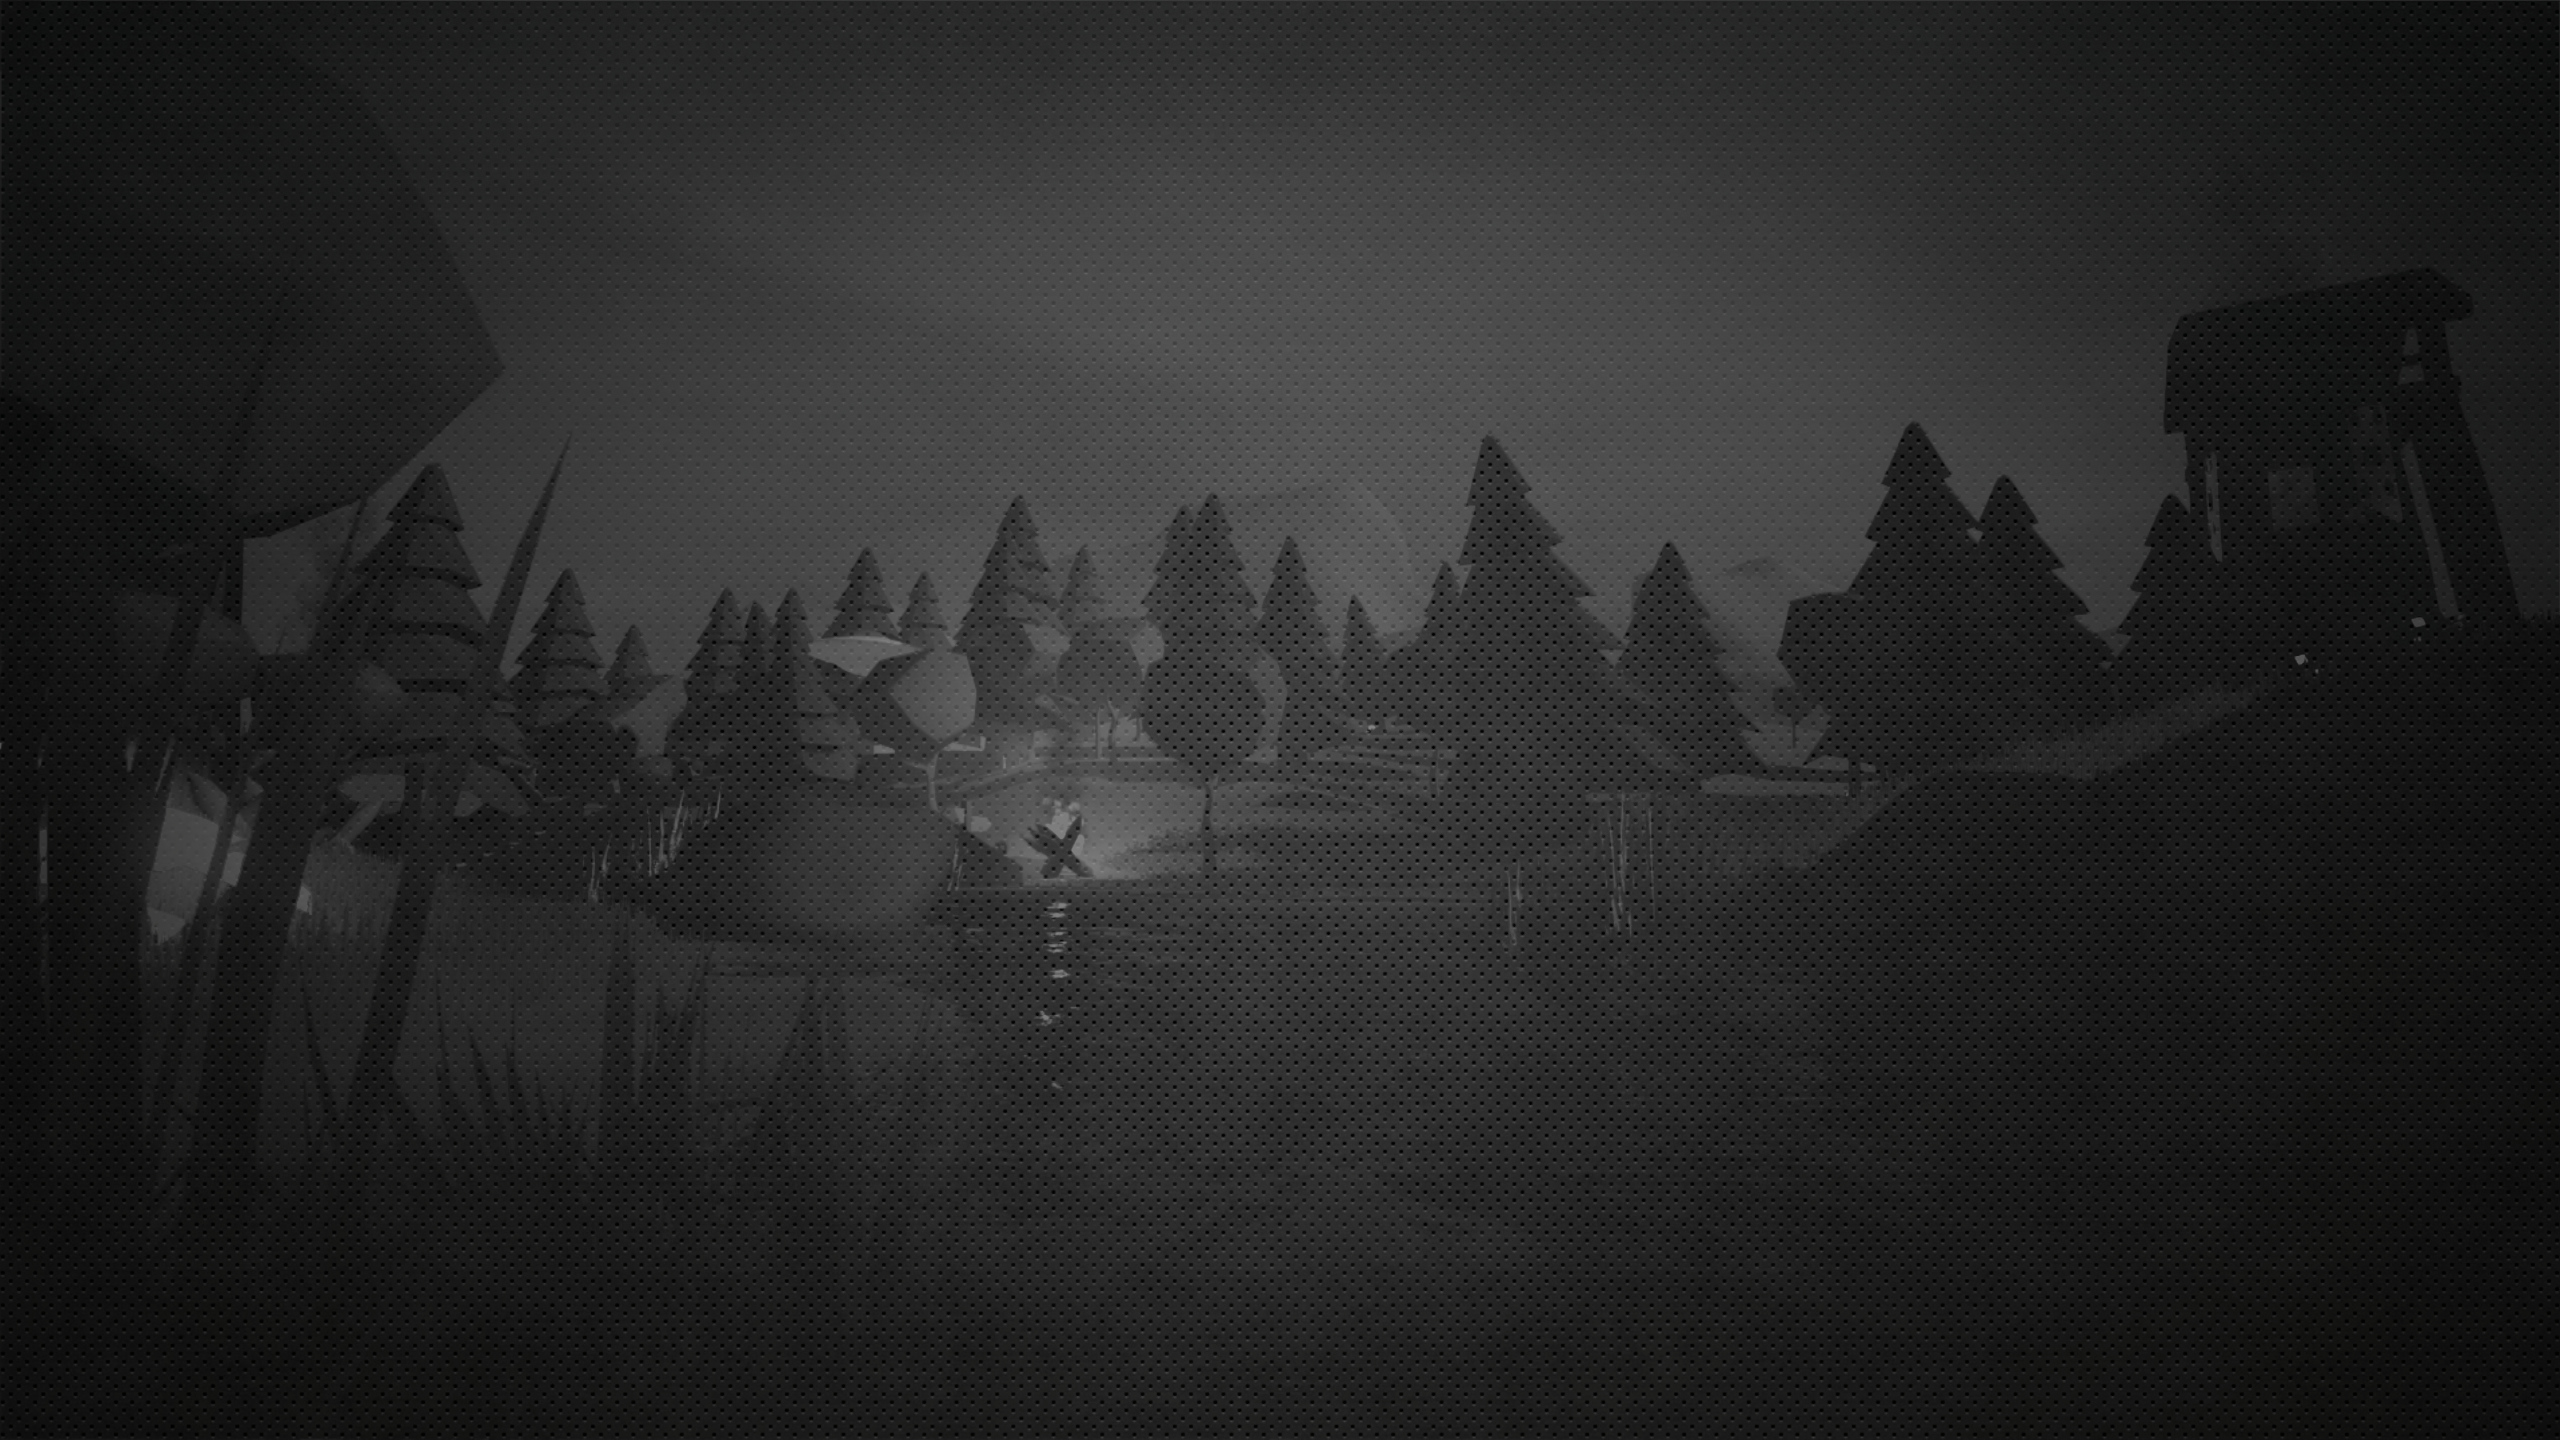
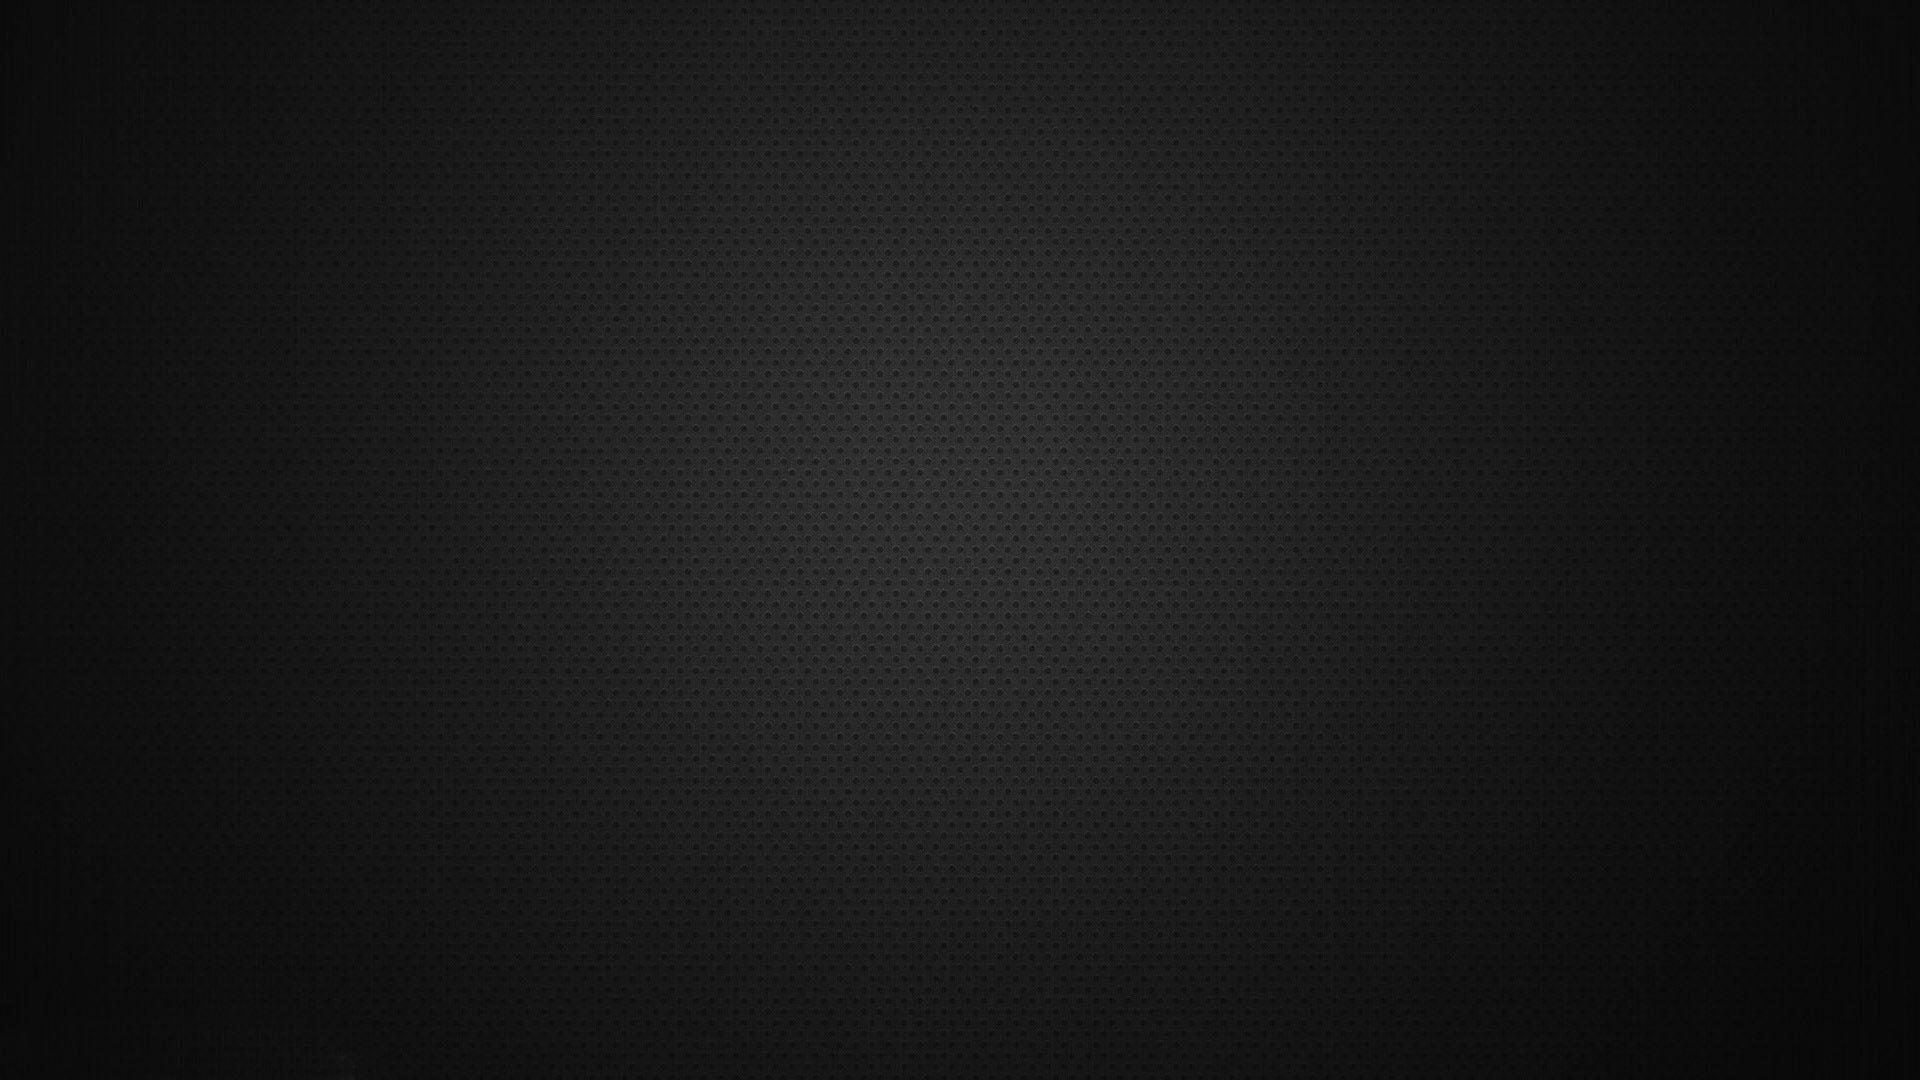
changement image fond des menus

Changed region(s): [[0.125, 0.0306, 0.875, 0.8861], [0.0312, 0.5194, 0.1875, 0.6722], [0.0938, 0.3667, 0.125, 0.4583]]

diff --git a/src/engine/main.cpp b/src/engine/main.cpp
@@ -149,7 +149,8 @@ void bgquad(float x, float y, float w, float h, float tx, float ty, float tw, fl
     gle::end();
 }
 
-string backgroundimg = "media/interface/image_fond.jpg";
+string backgroundimg = "media/interface/image_fond.jpg", backgroundname;
+
 void renderbackgroundview(int w, int h, const char *caption, Texture *mapshot, const char *mapname, const char *mapinfo, const char *astuce, bool force = false)
 {
     static int lastupdate = -1, lastw = -1, lasth = -1;
@@ -235,14 +236,26 @@ void renderbackgroundview(int w, int h, const char *caption, Texture *mapshot, c
 
         if(force) //CubeConflict
         {
+            float ilh = 1.1f*min(w, h), ilw = ilh*1.8f,
+                  ilx = 0.5f*(w - ilw), ily = 0.5f*(h - ilh);
+
+            switch(n_map)
+            {
+                case 0: formatstring(backgroundname, "media/map/Village.jpg"); break;
+                case 1: formatstring(backgroundname, "media/map/Usine.jpg"); break;
+                case 2: formatstring(backgroundname, "media/map/Chateaux.jpg"); break;
+                case 3: formatstring(backgroundname, "media/map/Dota.jpg"); break;
+                case 4: formatstring(backgroundname, "media/map/Lune.jpg"); break;
+                case 5: formatstring(backgroundname, "media/map/Volcan.jpg"); break;
+            }
+
+            settexture(backgroundname);
+            bgquad(ilx-parallaxX/-40, ily-parallaxY/-40, ilw, ilh);
+            gle::colorf(1, 1, 1, 0.3f);
+
             settexture("media/interface/image_fond.jpg");
-            bgquad(0-parallaxX/-40, 0-parallaxY/-40, w, h);
-
-            settexture("<premul>media/interface/sticker.png", 3);
-            bgquad(1400-parallaxX/20, 150-parallaxY/20, w/1.7777f, h);
-
-            settexture("<premul>media/interface/sticker2.png", 3);
-            bgquad(-350-parallaxX/20, 150-parallaxY/20, w/1.7777f, h);
+            bgquad(ilx-parallaxX/-40, ily-parallaxY/-40, ilw, ilh);
+            gle::colorf(1, 1, 1, 1);
 
             float lh = 0.43f*min(w, h), lw = lh*2,
                   lx = 0.5f*(w - lw), ly = 0.5f*(h*0.5f - lh);

diff --git a/src/engine/worldio.cpp b/src/engine/worldio.cpp
@@ -1,6 +1,7 @@
 // worldio.cpp: loading & saving of maps and savegames
 
 #include "engine.h"
+#include "cubedef.h"
 
 static void fixent(entity &e, int version)
 {
@@ -692,7 +693,7 @@ bool load_world(const char *mname, const char *cname)        // still supports a
     resetmap();
 
     Texture *mapshot = textureload(picname, 3, true, false);
-    renderbackground("Chargement...", mapshot, mname, game::getmapinfo(), game::getastuce());
+    renderbackground(langage ? "Loading..." : "Chargement...", mapshot, mname, game::getmapinfo(), game::getastuce());
 
     setvar("mapversion", hdr.version, true, false);
 
@@ -880,7 +881,7 @@ bool load_world(const char *mname, const char *cname)        // still supports a
     attachentities();
     allchanged(true);
 
-    renderbackground("Chargement...", mapshot, mname, game::getmapinfo(), game::getastuce());
+    renderbackground(langage ? "Loading..." : "Chargement...", mapshot, mname, game::getmapinfo(), game::getastuce());
 
     //if(maptitle[0] && strcmp(maptitle, "Untitled Map by Unknown")) conoutf(CON_ECHO, "%s", maptitle);
 
